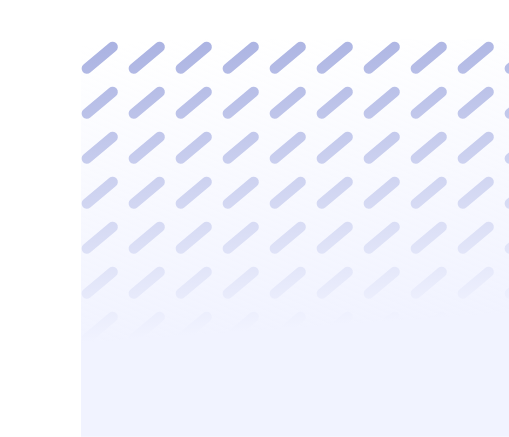
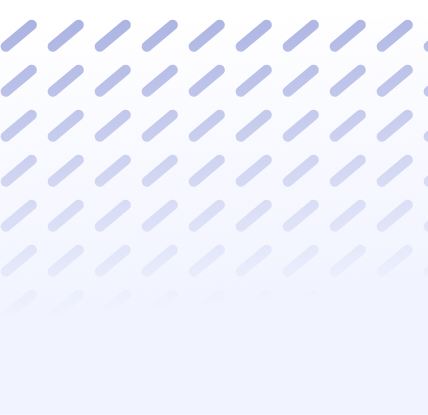
1.2

diff --git a/signin_page/lib/pages/second_page.dart b/signin_page/lib/pages/second_page.dart
@@ -16,6 +16,14 @@ class _SecondPage extends State<SecondPage> {
       backgroundColor: whitecolor,
       body: Stack(
         children: [
+          Positioned(
+            child: Image.asset(
+              "assets/images/background.png",
+            ),
+            top: 0,
+            left: 0,
+            right: 0,
+          ),
           Container(
             height: 150,
             width: double.infinity,
@@ -69,22 +77,35 @@ class _SecondPage extends State<SecondPage> {
                       )),
                 ],
               ),
+              SizedBox(
+                height: 50,
+              ),
               SingleChildScrollView(
-            physics: const AlwaysScrollableScrollPhysics(),
-            scrollDirection: Axis.vertical,
+                physics: const AlwaysScrollableScrollPhysics(),
+                scrollDirection: Axis.vertical,
                 child: Column(
                   children: [
                     Padding(
-                      padding:
-                          const EdgeInsets.only(left: 13, right: 13, bottom: 13),
+                      padding: const EdgeInsets.only(
+                          left: 13, right: 13, bottom: 13),
                       child: Container(
                         child: Column(
                           children: [
                             Padding(
                               padding: const EdgeInsets.all(10.0),
-                              child: Text("Sağlık durumum:",style: TextStyle(color: whitecolor,fontSize: 17,fontFamily: "Poppins Regular"),),
+                              child: Text(
+                                "Sağlık durumum:",
+                                style: TextStyle(
+                                    color: whitecolor,
+                                    fontSize: 17,
+                                    fontFamily: "Poppins Regular"),
+                              ),
                             ),
-                            Icon(Icons.expand_more,size: 25,color: whitecolor,)
+                            Icon(
+                              Icons.expand_more,
+                              size: 25,
+                              color: whitecolor,
+                            )
                           ],
                         ),
                         width: double.infinity,
@@ -96,8 +117,8 @@ class _SecondPage extends State<SecondPage> {
                       ),
                     ),
                     Padding(
-                      padding:
-                          const EdgeInsets.only(left: 13, right: 13, bottom: 13),
+                      padding: const EdgeInsets.only(
+                          left: 13, right: 13, bottom: 13),
                       child: Container(
                         width: double.infinity,
                         height: 200,
